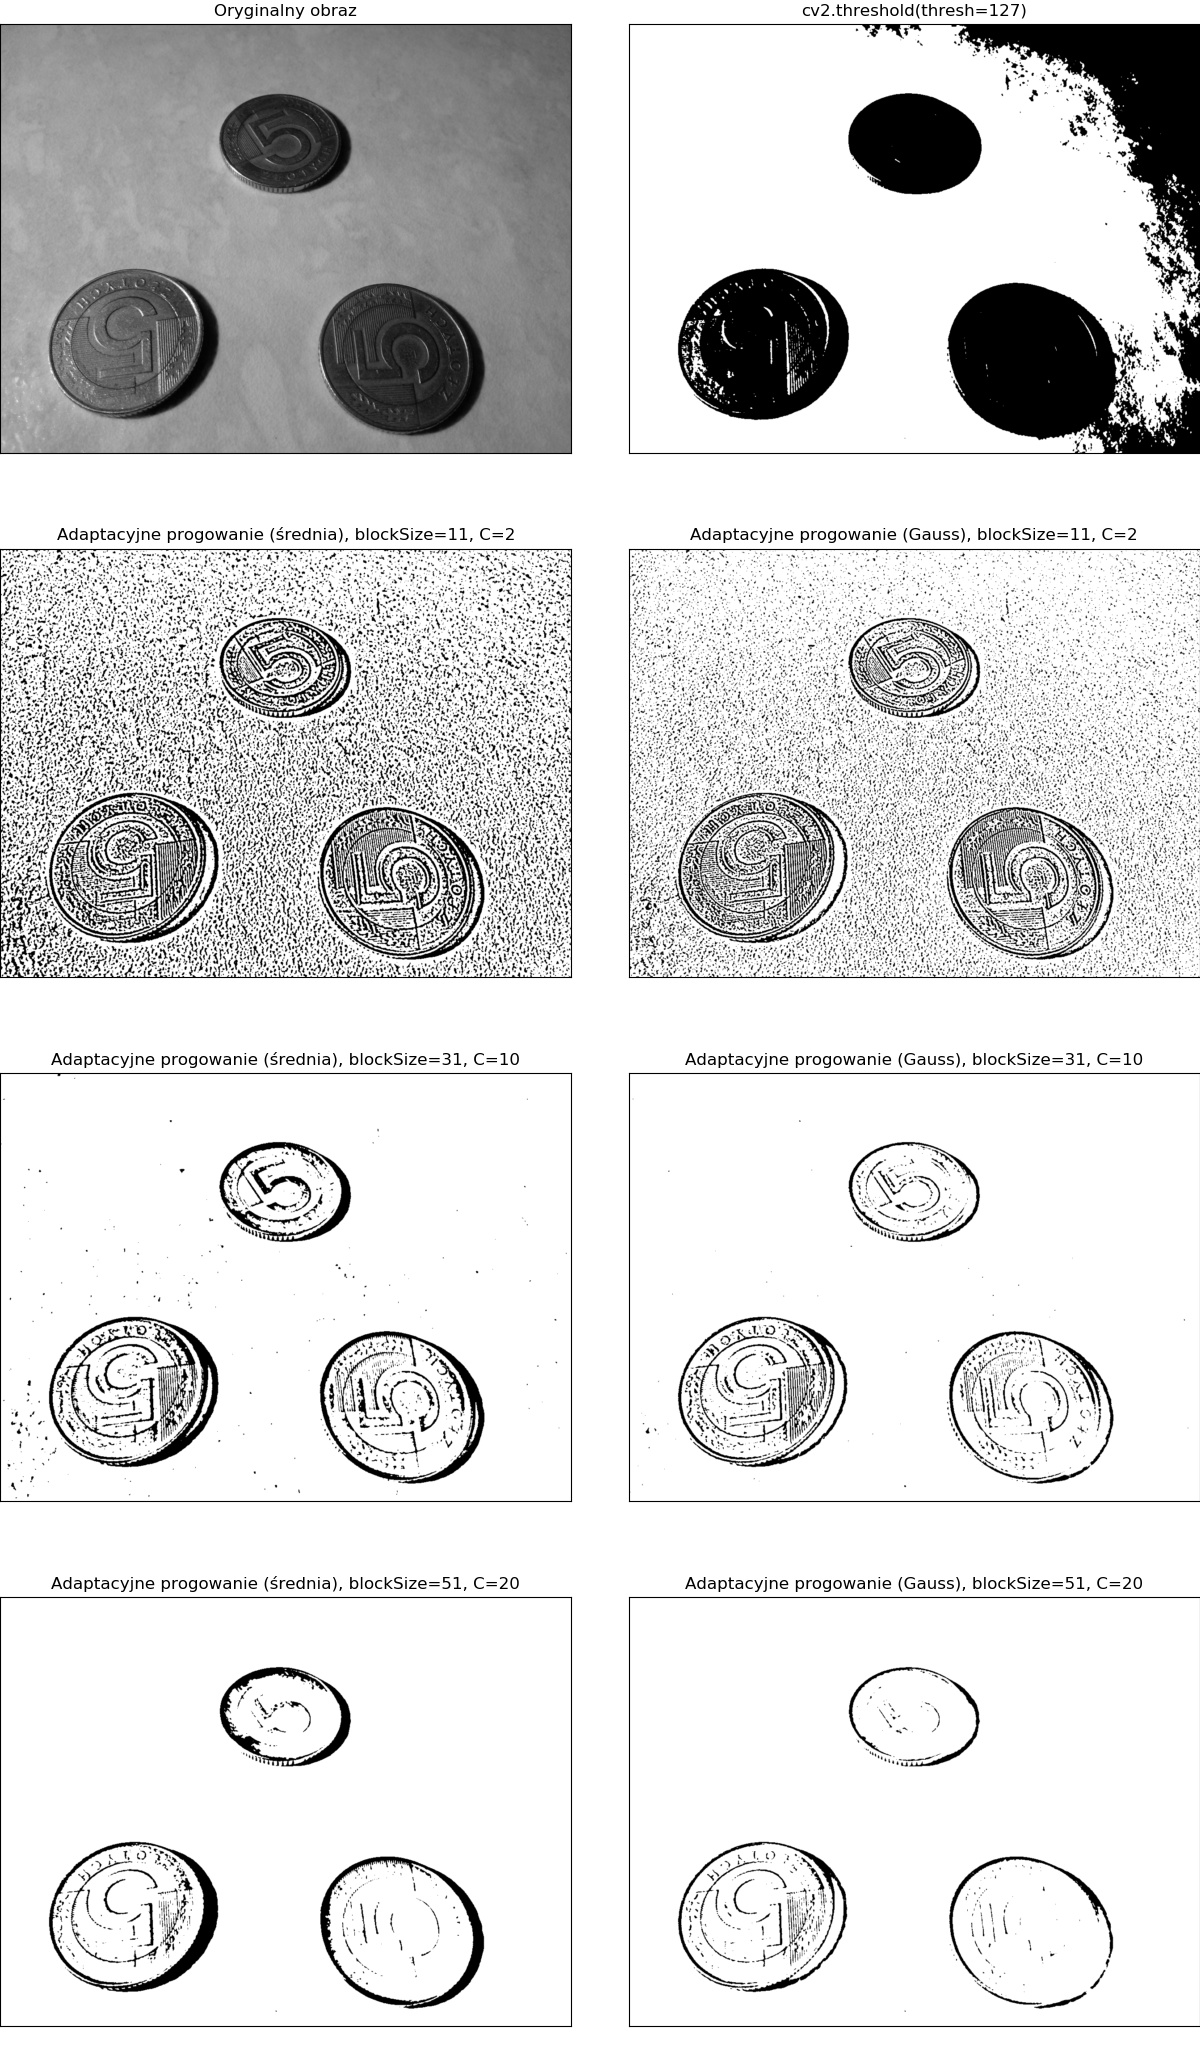
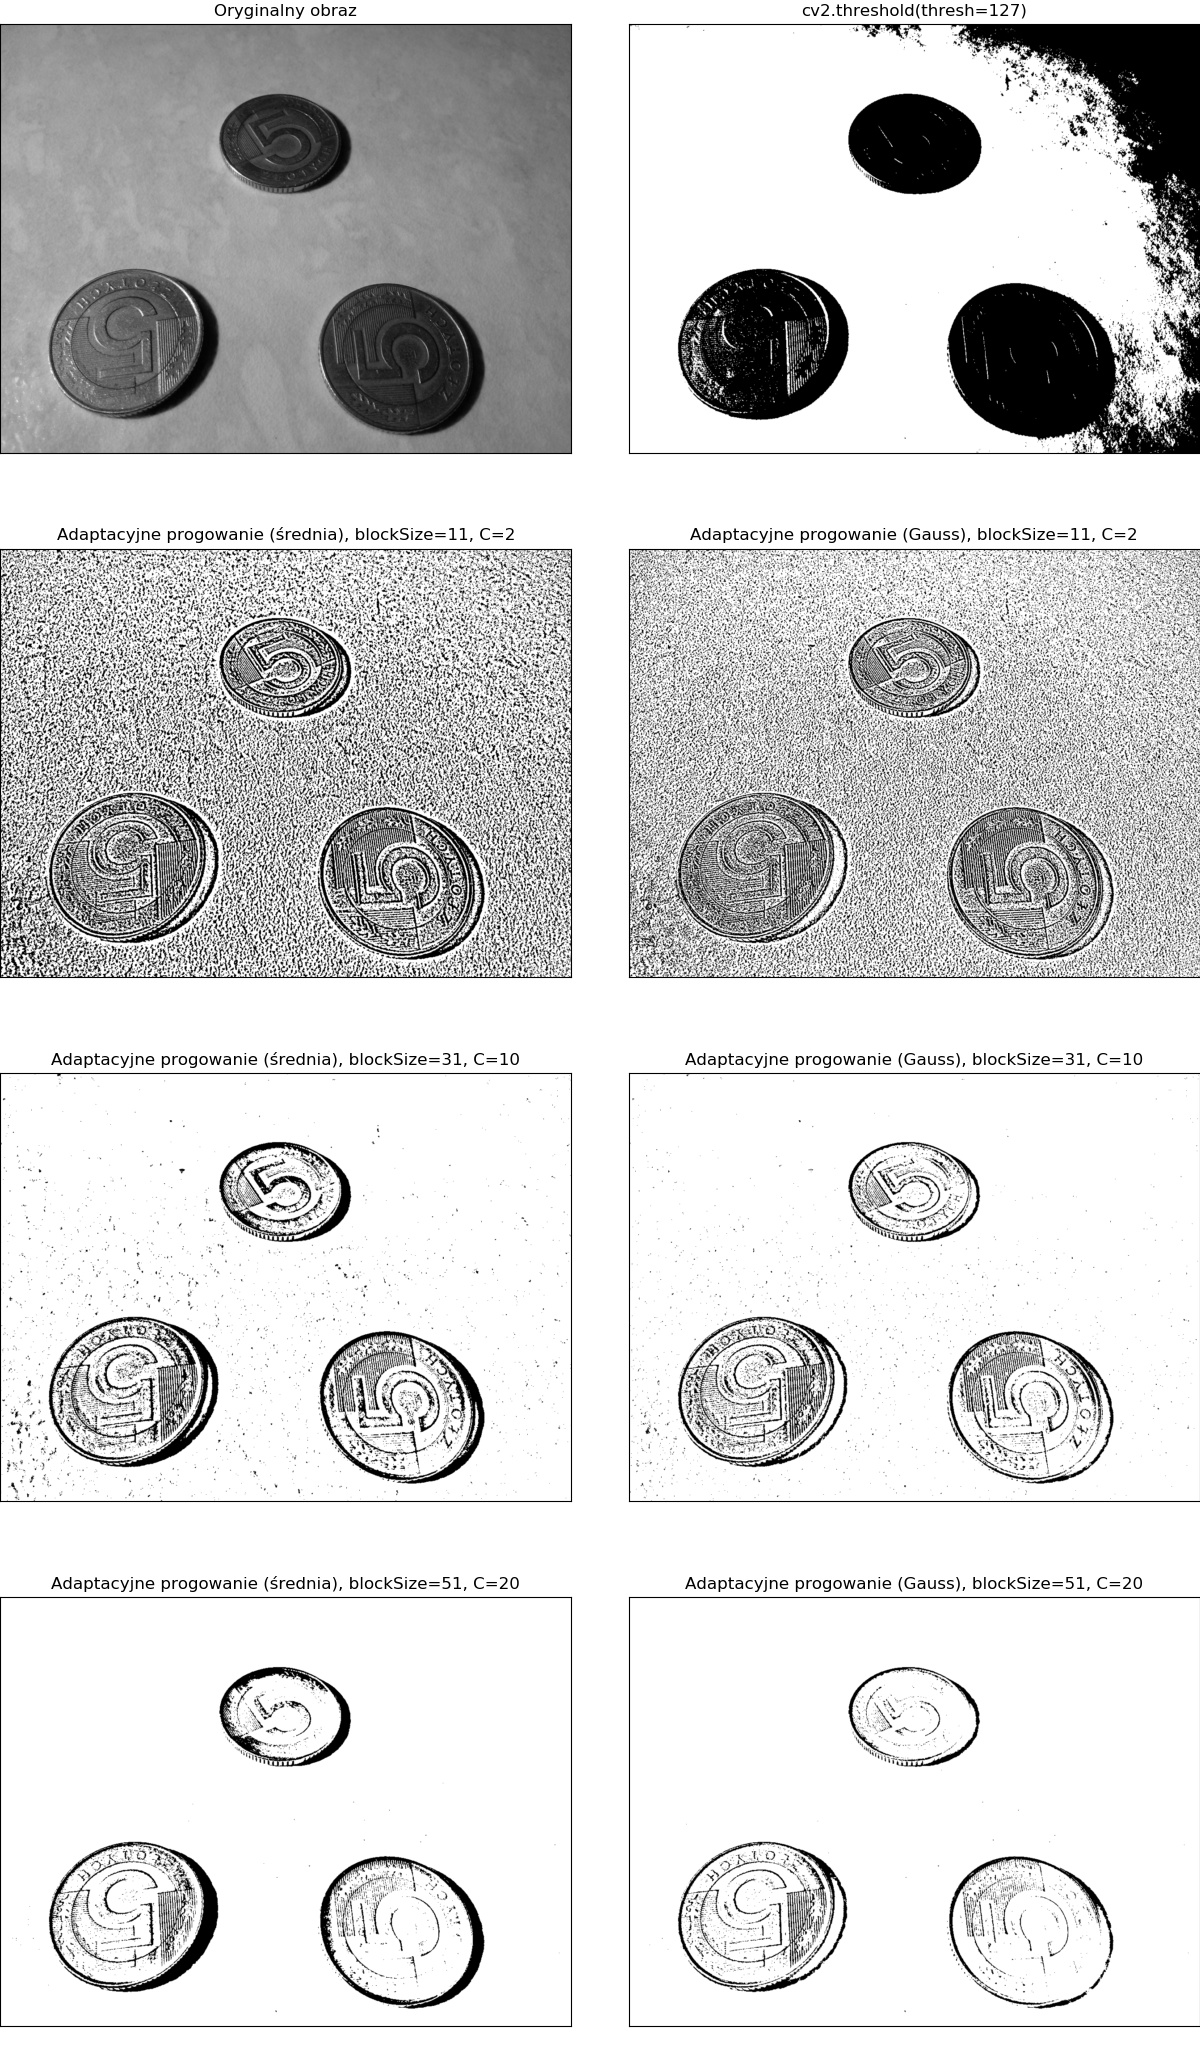
Poprawka na temat Testowania thresh'aborts
Testowanie thresh'a nie miało jeszcze obejmować blurred!

diff --git a/Sprawozdanie/Testowanie thresh.py b/Sprawozdanie/Testowanie thresh.py
@@ -16,23 +16,16 @@ def wykrywanieKonturow(image):
     plt.show()
     """
 
-    blurred = cv2.GaussianBlur(gray, (5, 5), 0)
-    """
-    fig, ax = plt.subplots()
-    ax.imshow(blurred, cmap='gray')
-    plt.show()
-    """
-
     #blockSize = 51
     #C = 20
 
-    thresh = cv2.threshold(blurred, 127, 255, cv2.THRESH_BINARY)[1]
-    threshMean1 = cv2.adaptiveThreshold(blurred, 255, cv2.ADAPTIVE_THRESH_MEAN_C, cv2.THRESH_BINARY, 11, 2)
-    threshGauss1 = cv2.adaptiveThreshold(blurred, 255, cv2.ADAPTIVE_THRESH_GAUSSIAN_C, cv2.THRESH_BINARY, 11, 2)
-    threshMean2 = cv2.adaptiveThreshold(blurred, 255, cv2.ADAPTIVE_THRESH_MEAN_C, cv2.THRESH_BINARY, 31, 10)
-    threshGauss2 = cv2.adaptiveThreshold(blurred, 255, cv2.ADAPTIVE_THRESH_GAUSSIAN_C, cv2.THRESH_BINARY, 31, 10)
-    threshMean3 = cv2.adaptiveThreshold(blurred, 255, cv2.ADAPTIVE_THRESH_MEAN_C, cv2.THRESH_BINARY, 51, 20)
-    threshGauss3 = cv2.adaptiveThreshold(blurred, 255, cv2.ADAPTIVE_THRESH_GAUSSIAN_C, cv2.THRESH_BINARY, 51, 20)
+    thresh = cv2.threshold(gray, 127, 255, cv2.THRESH_BINARY)[1]
+    threshMean1 = cv2.adaptiveThreshold(gray, 255, cv2.ADAPTIVE_THRESH_MEAN_C, cv2.THRESH_BINARY, 11, 2)
+    threshGauss1 = cv2.adaptiveThreshold(gray, 255, cv2.ADAPTIVE_THRESH_GAUSSIAN_C, cv2.THRESH_BINARY, 11, 2)
+    threshMean2 = cv2.adaptiveThreshold(gray, 255, cv2.ADAPTIVE_THRESH_MEAN_C, cv2.THRESH_BINARY, 31, 10)
+    threshGauss2 = cv2.adaptiveThreshold(gray, 255, cv2.ADAPTIVE_THRESH_GAUSSIAN_C, cv2.THRESH_BINARY, 31, 10)
+    threshMean3 = cv2.adaptiveThreshold(gray, 255, cv2.ADAPTIVE_THRESH_MEAN_C, cv2.THRESH_BINARY, 51, 20)
+    threshGauss3 = cv2.adaptiveThreshold(gray, 255, cv2.ADAPTIVE_THRESH_GAUSSIAN_C, cv2.THRESH_BINARY, 51, 20)
 
 
     print("\tKoniec wykrywania konturow.")
